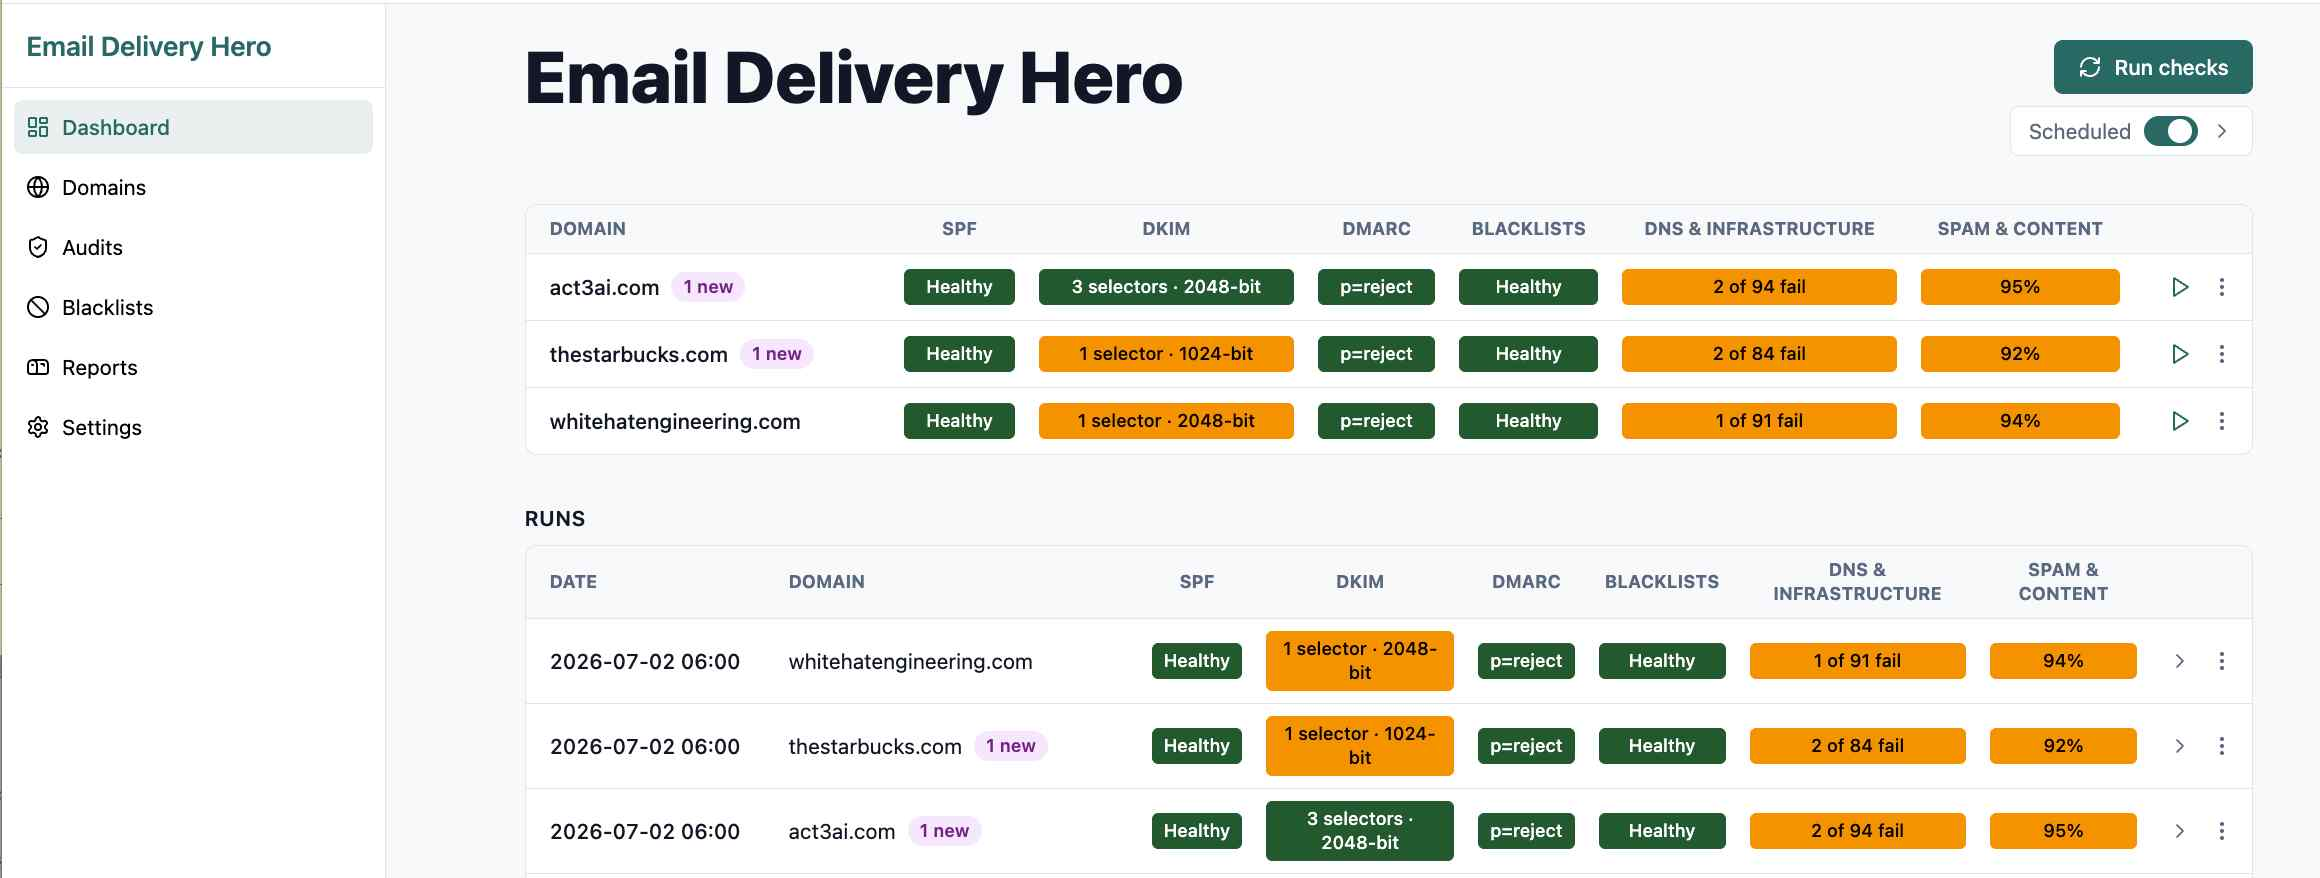
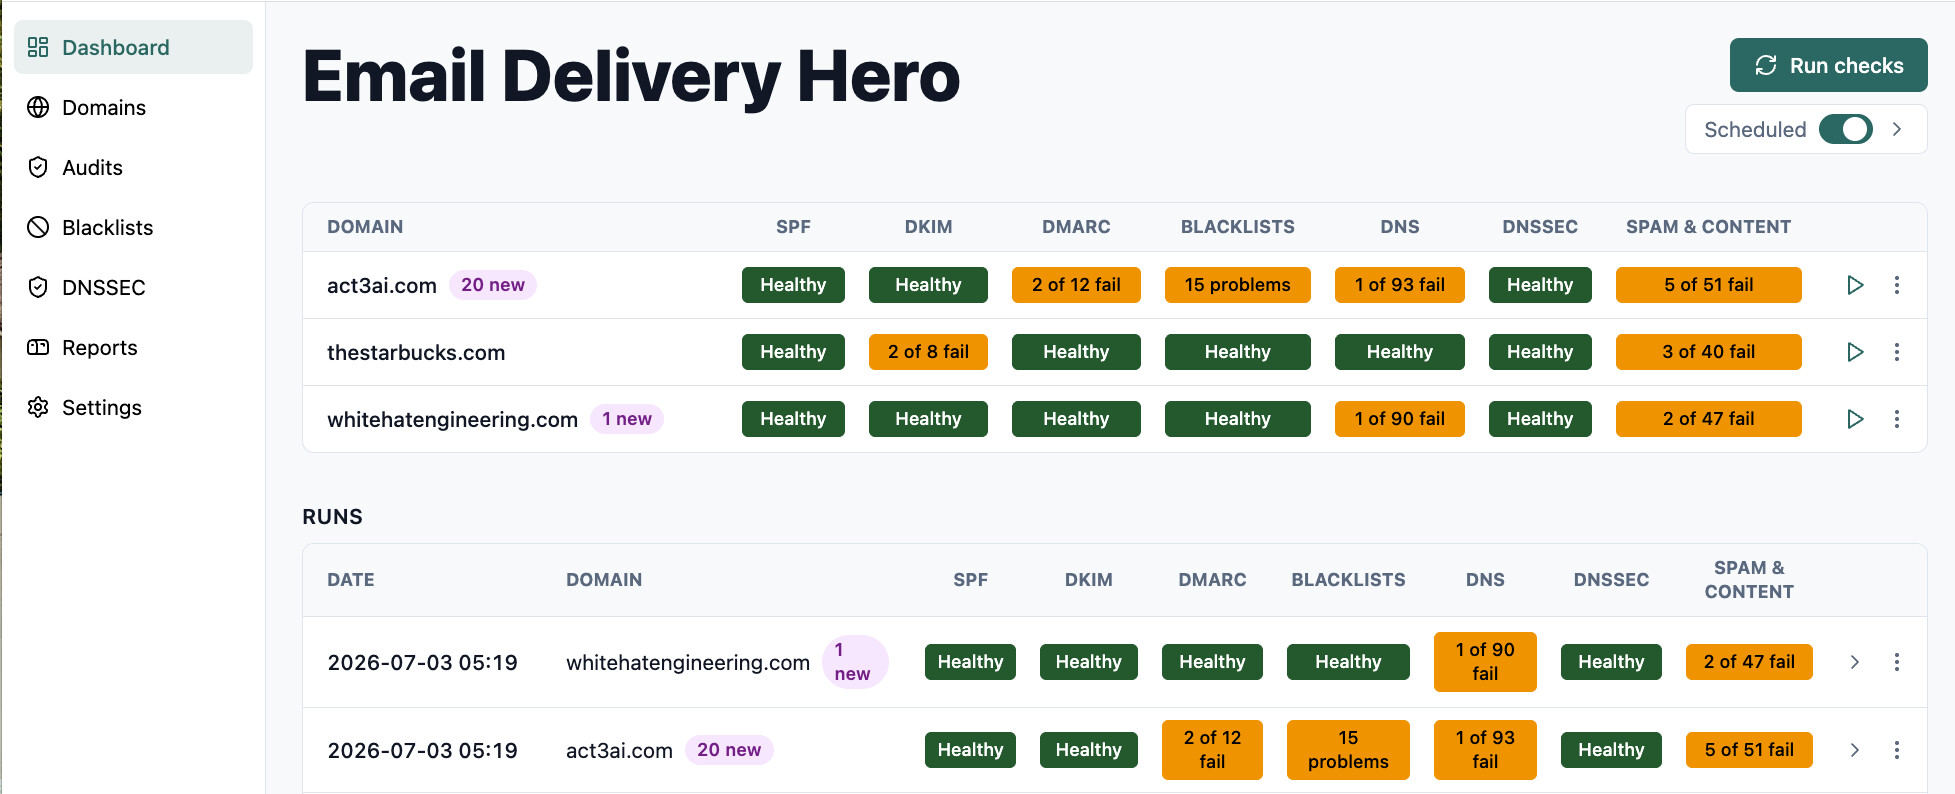
Bryan 26 Tower

diff --git a/code/packages/frontend/src/lib/categories.ts b/code/packages/frontend/src/lib/categories.ts
@@ -1,27 +1,22 @@
 /**
- * The six LOCKED dashboard categories (pm/ui.mdx §1.1) and the roll-up from a flat finding list to
- * one color-coded StatusCell per category. Every checker's finding lands in exactly one category,
+ * The seven dashboard categories (pm/ui.mdx §1.1) and the roll-up from a flat finding list to one
+ * color-coded StatusCell per category. Every checker's finding lands in exactly one category,
  * chosen by the prefix of its `checkId` (`checkId.split(".")[0]`): spf, dkim, dmarc/arc,
- * blacklist/dnsbl, infra, content — the six categories of pm/checks/overview.mdx. ARC has no cell
- * of its own — it feeds DMARC; `dnsbl` is the Blacklists prefix the specs use, `blacklist` the
- * checker's registry id.
+ * blacklist/dnsbl, infra, content — plus DNSSEC, which is carved out of `infra.*` into its own
+ * column (matched on the `infra.dnssec` id prefix, ahead of the generic first-segment lookup). ARC
+ * has no cell of its own — it feeds DMARC; `dnsbl` is the Blacklists prefix the specs use,
+ * `blacklist` the checker's registry id.
  */
-import type {
-	DkimResults,
-	DmarcResults,
-	DmarcSection,
-	Finding,
-	Severity,
-} from "@/api/types";
-import { normalizeDmarcSection } from "@/lib/dmarc";
+import type { Finding, Severity } from "@/api/types";
 
-/** The six locked column keys, in display order. */
+/** The dashboard column keys, in display order. */
 export type CategoryKey =
 	| "spf"
 	| "dkim"
 	| "dmarc"
 	| "blacklists"
 	| "dnsInfra"
+	| "dnssec"
 	| "spamContent";
 
 /** Cell color drives the Tailwind background (pm/ui.mdx §1.2). */
@@ -42,13 +37,15 @@ interface CategoryDef {
 	prefixes: string[];
 }
 
-/** The six categories in their locked order. */
+/** The categories in their display order. `dnssec` sits next to its parent `DNS` column. */
 export const CATEGORIES: CategoryDef[] = [
 	{ key: "spf", header: "SPF", prefixes: ["spf"] },
 	{ key: "dkim", header: "DKIM", prefixes: ["dkim"] },
 	{ key: "dmarc", header: "DMARC", prefixes: ["dmarc", "arc"] },
 	{ key: "blacklists", header: "Blacklists", prefixes: ["blacklist", "dnsbl"] },
-	{ key: "dnsInfra", header: "DNS & Infrastructure", prefixes: ["infra"] },
+	// Header shortened to "DNS" (pm/ui.mdx §1.1) so the column is narrow; DNSSEC is split out below.
+	{ key: "dnsInfra", header: "DNS", prefixes: ["infra"] },
+	{ key: "dnssec", header: "DNSSEC", prefixes: ["infra.dnssec"] },
 	{ key: "spamContent", header: "Spam & Content", prefixes: ["content"] },
 ];
 
@@ -56,8 +53,12 @@ const PREFIX_TO_KEY: Record<string, CategoryKey> = Object.fromEntries(
 	CATEGORIES.flatMap((c) => c.prefixes.map((p) => [p, c.key])),
 ) as Record<string, CategoryKey>;
 
-/** Which of the six categories a finding belongs to (by its checkId prefix). */
+/** Which category a finding belongs to (by its checkId prefix). */
 export function categoryOf(checkId: string): CategoryKey | null {
+	// DNSSEC findings share the `infra.` first segment with the rest of DNS & Infrastructure but get
+	// their own dashboard column (pm/ui.mdx §1.1) — match their `infra.dnssec*` ids before the
+	// generic first-segment lookup so they land in the DNSSEC cell, not the DNS cell.
+	if (checkId.startsWith("infra.dnssec")) return "dnssec";
 	return PREFIX_TO_KEY[checkId.split(".")[0]] ?? null;
 }
 
@@ -120,14 +121,14 @@ function cellFor(key: CategoryKey, findings: Finding[]): CellStatus {
 		(a, b) => WORST[b.severity] - WORST[a.severity],
 	)[0];
 
-	// Metric text per test (pm/dashboard.mdx §5.2 / pm/ui.mdx §1.3): Blacklists is count-oriented
-	// ("N problems"); Spam & Content is naturally a percentage (inbox placement — until seed-list
-	// placement data exists, the passing-sub-test rate is the percent); everything else is
-	// "K of M fail". Healthy cells show the literal "Healthy" except the percent-style cell.
+	// Metric text (pm/dashboard.mdx §5.2 / pm/ui.mdx §1.3): ONE at-a-glance convention across every
+	// cell — all sub-tests pass → the literal "Healthy"; otherwise "K of M fail". No cell shows a
+	// policy string, selector count, key size, or percentage on the dashboard — that decision-detail
+	// lives on the drill-in page, so a green cell always reads "Healthy" and never something the user
+	// has to interpret (e.g. a green "p=reject"). Blacklists is the one count-oriented exception, since
+	// a blacklist listing is a problem count rather than a pass/fail ratio.
 	let label: string;
-	if (key === "spamContent") {
-		label = `${Math.round(((findings.length - failing.length) / findings.length) * 100)}%`;
-	} else if (failing.length === 0) {
+	if (failing.length === 0) {
 		label = "Healthy";
 	} else if (key === "blacklists") {
 		label = failing.length === 1 ? "1 problem" : `${failing.length} problems`;
@@ -140,50 +141,16 @@ function cellFor(key: CategoryKey, findings: Finding[]): CellStatus {
 }
 
 /**
- * The DKIM cell's decision-relevant metric (pm/checks/dkim.mdx §6.1): working selectors and key
- * strength — `2 selectors · 2048-bit` / `1 of 2 selectors failing` / `selector "s1" missing` /
- * `No selectors`. Falls back to the generic label when the run predates structured DKIM results.
- */
-function dkimLabel(dkim: DkimResults): string {
-	const probed = dkim.selectors.length;
-	if (probed === 0) return "No selectors";
-	const failing = dkim.selectors.filter(
-		(s) => !s.present || !s.parses || s.is_revoked,
-	);
-	if (failing.length === 1 && probed <= 2 && !failing[0].present) {
-		return `selector "${failing[0].selector}" missing`;
-	}
-	if (failing.length > 0) {
-		return `${failing.length} of ${probed} selector${probed === 1 ? "" : "s"} failing`;
-	}
-	const rsaBits = dkim.selectors
-		.filter((s) => s.key_type === "rsa" && s.key_bits !== null)
-		.map((s) => s.key_bits as number);
-	const weakest = rsaBits.length > 0 ? Math.min(...rsaBits) : null;
-	return `${probed} selector${probed === 1 ? "" : "s"}${weakest ? ` · ${weakest}-bit` : " · ed25519"}`;
-}
-
-/**
- * The DMARC cell's decision-relevant metric (pm/checks/dmarc.mdx §6.1): the **policy level** —
- * `p=reject` / `p=quarantine` / `p=none` / `No record`. A record that yields no valid policy
- * (broken syntax, duplicates) keeps the generic "K of M fail" label.
- */
-function dmarcLabel(record: DmarcResults, fallback: string): string {
-	if (!record.record_found) return "No record";
-	if (record.policy) return `p=${record.policy}`;
-	return fallback;
-}
-
-/**
- * Roll a whole audit's findings into the six category cells (in locked order). Pass the run's
- * structured `results` too when available — categories whose spec defines a richer cell metric
- * (DKIM: working selectors + key strength, pm/checks/dkim.mdx §6.1; DMARC: the policy level,
- * pm/checks/dmarc.mdx §6.1) use it for the label; the color always stays the worst finding
- * severity.
+ * Roll a whole audit's findings into the category cells (in display order). Each cell's color is the
+ * worst finding severity in that category and its label is the uniform "Healthy" / "K of M fail"
+ * metric (see cellFor). The optional `_results` argument is accepted for call-site compatibility but
+ * no longer consulted: every richer per-category metric (DKIM selector count + key strength, DMARC
+ * policy level, Spam & Content percentage) has moved off the dashboard cell and onto the drill-in
+ * page, so the dashboard never shows a value the user has to interpret.
  */
 export function rollupCategories(
 	findings: Finding[] | undefined,
-	results?: Record<string, unknown>,
+	_results?: Record<string, unknown>,
 ): Record<CategoryKey, CellStatus> {
 	const out = {} as Record<CategoryKey, CellStatus>;
 	for (const cat of CATEGORIES) {
@@ -195,16 +162,6 @@ export function rollupCategories(
 			cat.key,
 			findings.filter((f) => categoryOf(f.checkId) === cat.key),
 		);
-	}
-	const dkim = results?.dkim as DkimResults | undefined;
-	if (findings && dkim && out.dkim !== NEVER_CELL) {
-		out.dkim = { ...out.dkim, label: dkimLabel(dkim) };
-	}
-	const dmarcRaw = results?.dmarc as DmarcSection | DmarcResults | undefined;
-	if (findings && dmarcRaw && out.dmarc !== NEVER_CELL) {
-		const { record } = normalizeDmarcSection(dmarcRaw);
-		if (record)
-			out.dmarc = { ...out.dmarc, label: dmarcLabel(record, out.dmarc.label) };
 	}
 	return out;
 }

diff --git a/code/packages/frontend/src/components/layout/Sidebar.tsx b/code/packages/frontend/src/components/layout/Sidebar.tsx
@@ -3,8 +3,6 @@ import { Link, useLocation } from "@tanstack/react-router";
 import { ArrowLeft } from "lucide-react";
 import {
 	appNavItems,
-	appTitle,
-	appTitleRoute,
 	settingsBackRoute,
 	settingsGroups,
 	settingsHeaderLabel,
@@ -15,8 +13,10 @@ import { NavIcon } from "./NavIcon";
 
 export type SidebarVariant = "app" | "settings";
 
+// As narrow as the nav labels allow (pm/leftbar.mdx §1) so the Dashboard gets the width: no
+// wordmark, w-44 instead of w-64.
 const SHELL =
-	"flex h-full w-64 shrink-0 flex-col border-r border-[var(--edh-border)] bg-white";
+	"flex h-full w-44 shrink-0 flex-col border-r border-[var(--edh-border)] bg-white";
 // Left-bar text is BLACK (pm/leftbar.mdx §2): green stays green (active item, wordmark),
 // medium grey becomes black. Hover keeps its light-grey fill.
 const ITEM =
@@ -52,16 +52,10 @@ function AppSidebar() {
 
 	return (
 		<nav className={SHELL}>
-			<div className="flex h-14 items-center gap-2 border-b border-[var(--edh-border)] px-4">
-				{/* Wordmark: spaced "Email Delivery Hero", green, normal tracking, routes to / (§1). */}
-				<Link
-					to={appTitleRoute}
-					className="text-lg font-semibold tracking-normal text-[var(--edh-primary)]"
-				>
-					{appTitle}
-				</Link>
-			</div>
-			<div className="flex-1 space-y-1 overflow-y-auto p-2">
+			{/* No wordmark (pm/leftbar.mdx §1): the nav starts at the top so the bar stays as narrow and
+			    as tall as possible, handing the width back to the Dashboard. */}
+			<div className="flex-1 space-y-1 overflow-y-auto p-2 pt-3">
+
 				{appNavItems
 					.filter((item) => gate(item.permission_gate))
 					.map((item) => (

diff --git a/code/packages/frontend/src/pages/app/DashboardPage.tsx b/code/packages/frontend/src/pages/app/DashboardPage.tsx
@@ -199,10 +199,18 @@ function DomainHealthTable({
 														to: "/blacklists/$domain",
 														params: { domain: d.name },
 													})
-											: techRoute
-												? () =>
-														navigate({ to: techRoute, params: { id: d.id } })
-												: undefined;
+											: c.key === "dnssec"
+												? // DNSSEC has no standalone page; its drill-in is the DNS-family
+													// explainer (pm/checks/dns.mdx §6.2) for the newest run.
+													() =>
+														navigate({
+															to: "/domains/$id/dns/check/$checkKey",
+															params: { id: d.id, checkKey: "dnssec" },
+														})
+												: techRoute
+													? () =>
+															navigate({ to: techRoute, params: { id: d.id } })
+													: undefined;
 									return (
 										<td key={c.key} className="px-2 py-2">
 											<TestCell

diff --git a/code/packages/frontend/src/pages/domains/DomainsPage.tsx b/code/packages/frontend/src/pages/domains/DomainsPage.tsx
@@ -40,7 +40,7 @@ import {
 } from "@/lib/categories";
 import { useScanProgress, useScanRunner } from "@/scan/ScanProgressContext";
 
-/** One table row: the monitored domain plus its six latest category cells (pm/domains.mdx §3.1). */
+/** One table row: the monitored domain plus its latest category cells (pm/domains.mdx §3.1). */
 interface DomainRow {
 	domain: MonitoredDomain;
 	cells: Record<CategoryKey, CellStatus>;
@@ -61,7 +61,7 @@ const TD_CLASS: Record<string, string> = {
 
 /**
  * The Domains CRUD surface (pm/domains.mdx). A TanStack Table of monitored domains — one row per
- * domain — each row showing its six latest LOCKED category cells (same colors as the Dashboard),
+ * domain — each row showing its latest category cells (same colors as the Dashboard),
  * its per-domain scheduled-checks toggle (ANDed with the global switch, §6), and per-row actions
  * (run audit now, edit, remove behind a confirm dialog, open run history). Plus the header's
  * Run all + Add domain buttons and the Add/Edit dialog with an Advanced (optional) disclosure.
@@ -112,7 +112,8 @@ export function DomainsPage() {
 		const byId = new Map((results ?? []).map((r) => [r.domainId, r]));
 		return list.map((d) => ({
 			domain: d,
-			// Structured results give DKIM/DMARC their spec'd cell labels (selectors · bits / p=<policy>).
+			// Every category cell reads "Healthy" / "K of M fail" (pm/ui.mdx §1.3); the per-check
+			// detail (policy, selectors, key bits) lives on the drill-in page, not the cell.
 			cells: rollupCategories(
 				byId.get(d.id)?.findings,
 				byId.get(d.id)?.results,
@@ -146,7 +147,8 @@ export function DomainsPage() {
 	const openDetail = (d: MonitoredDomain) =>
 		navigate({ to: "/domains/$id", params: { id: d.id } });
 
-	// Nine columns (pm/domains.mdx §3.2): Domain, the six LOCKED categories, Scheduled, Actions.
+	// Columns (pm/domains.mdx §3.2): Domain, the category cells (SPF, DKIM, DMARC, Blacklists, DNS,
+	// DNSSEC, Spam & Content), Scheduled, Actions.
 	const columns: ColumnDef<DomainRow>[] = [
 		{
 			id: "name",

diff --git a/code/packages/backend/src/modules/install/install.types.ts b/code/packages/backend/src/modules/install/install.types.ts
@@ -7,10 +7,13 @@ export interface PreflightResult {
 	brewPresent: boolean | null;
 	/** How pnpm can be enabled if absent: 'corepack' | 'npm' | 'none'. */
 	pnpmEnable: "corepack" | "npm" | "none";
-	/** Tools this scope NEEDS that are absent (default tier) — the page pre-checks these. */
+	/** Absent default-tier tools this scope NEEDS — a non-empty `missing` is what DIVERTS a run. */
 	missing: ToolStatus[];
-	/** Optional tools for this scope that are absent (extended tier) — shown unchecked. */
+	/** Absent extended-tier tools for this scope — shown as rows; a missing one never diverts a run. */
 	optional: ToolStatus[];
+	// NB: the page pre-checks EVERY auto-installable row across BOTH missing and optional
+	// (pm/install_brew.mdx §4.2 — "check them all unless there's a good reason not to"). The
+	// missing/optional split only gates the run-divert decision, not which checkboxes start checked.
 	/** Already-installed tools for this scope (for the Settings coverage view). */
 	installed: ToolStatus[];
 }

diff --git a/code/packages/frontend/src/components/layout/AccountMenu.tsx b/code/packages/frontend/src/components/layout/AccountMenu.tsx
@@ -43,12 +43,7 @@ export function AccountMenu() {
 					<span className="flex h-8 w-8 shrink-0 items-center justify-center rounded-full bg-slate-200">
 						<LogIn className="h-4 w-4" />
 					</span>
-					<span className="min-w-0 flex-1">
-						<span className="block truncate">Sign in</span>
-						<span className="block truncate text-xs font-normal text-black">
-							Using default settings
-						</span>
-					</span>
+					<span className="min-w-0 flex-1 truncate">Sign in</span>
 				</Link>
 			</div>
 		);

diff --git a/README.md b/README.md
@@ -66,7 +66,7 @@ Once you have it running on your local computer, then navigate to localhost:4444
 
 <a href="pm/images/Large_File_Brdige_6.jpeg"><img src="pm/images/Large_File_Brdige_6.jpeg" width="100%" alt="EmailDeliveryHero running in a browser at localhost:4444"></a>
 
-**Dashboard** — one row per domain with six color-coded category cells, plus the full run history below.
+**Dashboard** — one row per domain with a color-coded cell per check category, plus the full run history below.
 
 <a href="pm/images/Large_File_Brdige_1.jpeg"><img src="pm/images/Large_File_Brdige_1.jpeg" width="100%" alt="EmailDeliveryHero dashboard: domain-health table and run history"></a>
 
@@ -85,6 +85,10 @@ Once you have it running on your local computer, then navigate to localhost:4444
 **Scheduling** — recurring, unattended re-audits via the OS-native scheduler, configurable by time and day.
 
 <a href="pm/images/Large_File_Brdige_5.jpeg"><img src="pm/images/Large_File_Brdige_5.jpeg" width="100%" alt="Settings: scheduling recurring audits"></a>
+
+**DNSSEC** — fleet-wide DNSSEC hygiene: which domains are signed, DS presence, signing algorithm, and soonest RRSIG expiry, with an Expiry radar tab.
+
+<a href="pm/images/Large_File_Brdige_7.jpeg"><img src="pm/images/Large_File_Brdige_7.jpeg" width="100%" alt="Fleet-wide DNSSEC status page with per-domain signing and RRSIG expiry"></a>
 
 ---
 